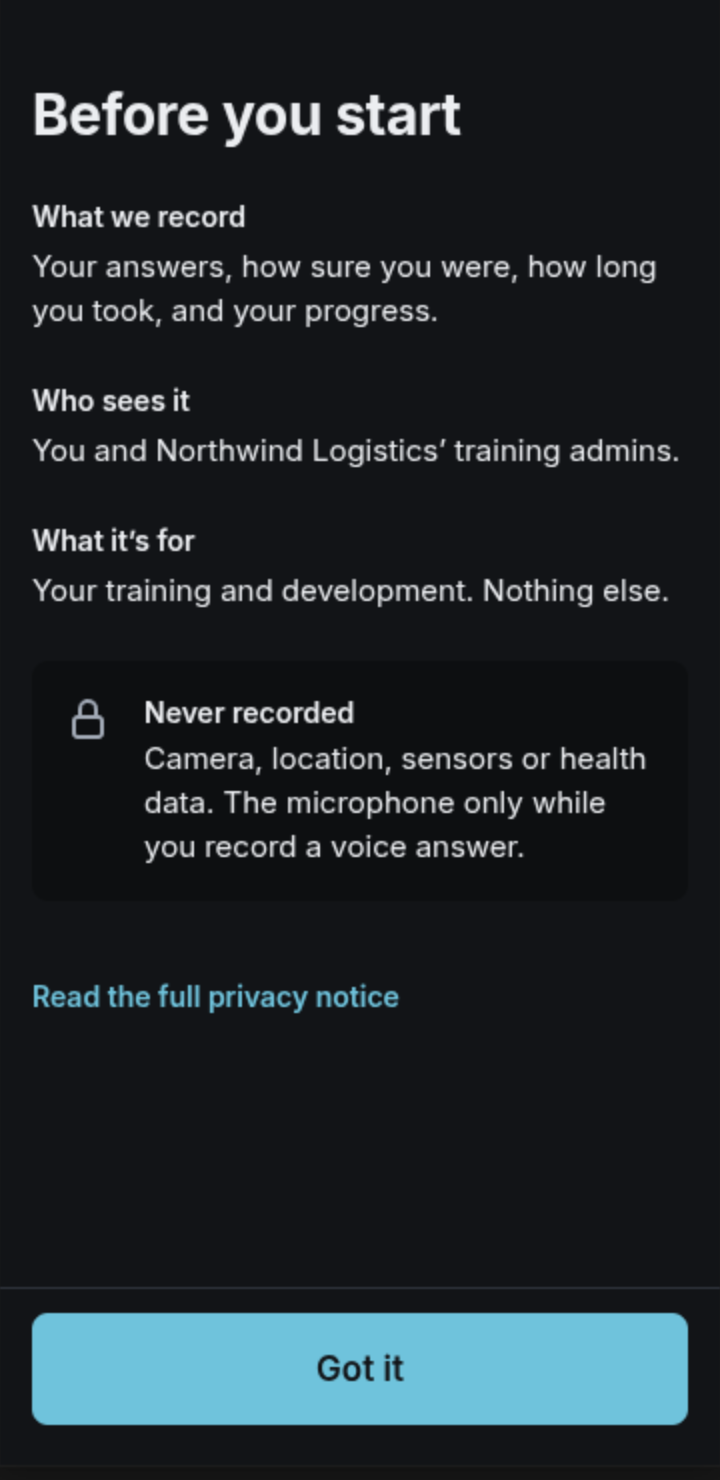
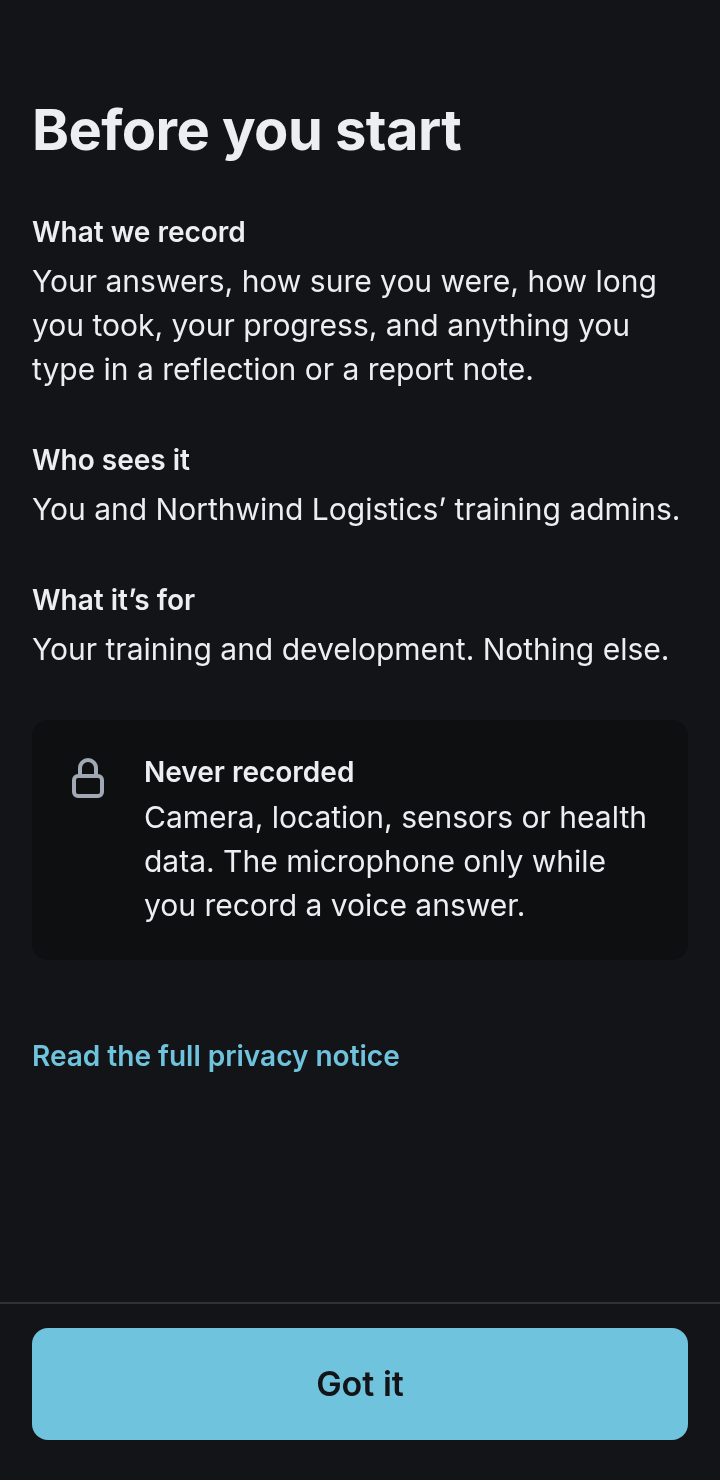
Match the learner privacy design to the shipped wording
The learner design now uses the same privacy sentences as the apps.
Only company owners and admins can open a learner's Training
progress page, and there is no manager role, so the header caption
reads "Your company's training admins see this same page." Learners'
reflections and report notes are stored, and company admins see
report notes, so What we record lists them. The handoff notes record
both sentences, and the Disclosure and Training progress screenshots
are re-exported in light and dark.

Fixes #808

Implementer: claude-opus (anthropic): claude-opus-5-5 medium

diff --git a/docs/design/mobile/source/Handoff.dc.html b/docs/design/mobile/source/Handoff.dc.html
@@ -113,6 +113,7 @@
         <ul class="t-body" style="list-style: disc; padding-left: 20px; display: flex; flex-direction: column; gap: 4px;">
           <li>Scroll padding 48 / 16 / 16. <code>h1</code> "Before you start".</li>
           <li>Three text blocks, no icons, gap 24; each a label heading + body (gap 4): What we record, Who sees it, What it’s for.</li>
+          <li>What we record: "Your answers, how sure you were, how long you took, your progress, and anything you type in a reflection or a report note." Reflections and report notes are stored, and company admins see report notes.</li>
           <li>Sunken block "Never recorded", padding 16, lock icon (the only icon on the screen): "Camera, location, sensors or health data. The microphone only while you record a voice answer."</li>
           <li>"Read the full privacy notice" link (external URL). Dock: Got it.</li>
         </ul>
@@ -775,7 +776,7 @@
       <div style="flex: 1 1 240px; min-width: 0; display: flex; flex-direction: column; gap: 8px;">
         <h3 class="t-label">Layout</h3>
         <ul class="t-body" style="list-style: disc; padding-left: 20px; display: flex; flex-direction: column; gap: 4px;">
-          <li>Header: <code>h1</code> "Training progress" + Settings gear; "Jordan Reyes · Warehouse picker"; eye caption "Your manager sees this same page."</li>
+          <li>Header: <code>h1</code> "Training progress" + Settings gear; "Jordan Reyes · Warehouse picker"; eye caption "Your company's training admins see this same page." Only company owners and admins can open a learner's page; there is no manager role.</li>
           <li>Mastery card: "66%" (display) + "of 85% benchmark", 12 px bar, two facts: "Day 16 of 30", "Projected: Nov 12 / Reaches 85% on day 25".</li>
           <li>Weekly trend: 188 px line chart, 3 weekly points, dashed projection to 85% on Nov 12, dashed benchmark line.</li>
           <li>By unit: accordion rows (Receiving open), bars, concept lists with chips. Safety: dashed estimate bar + Estimate chip under the bar, as on Path.</li>

diff --git a/docs/design/mobile/source/Disclosure.dc.html b/docs/design/mobile/source/Disclosure.dc.html
@@ -20,7 +20,7 @@
     <div style="display: flex; flex-direction: column; gap: 24px;">
       <section aria-labelledby="d-record" style="display: flex; flex-direction: column; gap: 4px;">
         <h2 id="d-record" class="t-label">What we record</h2>
-        <p class="t-body">Your answers, how sure you were, how long you took, and your progress.</p>
+        <p class="t-body">Your answers, how sure you were, how long you took, your progress, and anything you type in a reflection or a report note.</p>
       </section>
       <section aria-labelledby="d-see" style="display: flex; flex-direction: column; gap: 4px;">
         <h2 id="d-see" class="t-label">Who sees it</h2>

diff --git a/docs/design/mobile/source/Profile.dc.html b/docs/design/mobile/source/Profile.dc.html
@@ -26,7 +26,7 @@
       <p class="t-body">Jordan Reyes · Warehouse picker</p>
       <p class="t-caption muted" style="display: flex; align-items: center; gap: 4px; margin-top: 4px;">
         <svg viewBox="0 0 24 24" width="16" height="16" fill="none" stroke="currentColor" stroke-width="2" stroke-linecap="round" stroke-linejoin="round" aria-hidden="true"><path d="M2 12s3.5-7 10-7 10 7 10 7-3.5 7-10 7S2 12 2 12z"></path><circle cx="12" cy="12" r="3"></circle></svg>
-        Your manager sees this same page.
+        Your company's training admins see this same page.
       </p>
     </header>
 

diff --git a/docs/design/mobile/HANDOFF.md b/docs/design/mobile/HANDOFF.md
@@ -69,6 +69,7 @@ Route: not in spec · Disclosure
 Layout
 Scroll padding 48 / 16 / 16. h1 "Before you start".
 Three text blocks, no icons, gap 24; each a label heading + body (gap 4): What we record, Who sees it, What it’s for.
+What we record: "Your answers, how sure you were, how long you took, your progress, and anything you type in a reflection or a report note." Reflections and report notes are stored, and company admins see report notes.
 Sunken block "Never recorded", padding 16, lock icon (the only icon on the screen): "Camera, location, sensors or health data. The microphone only while you record a voice answer."
 "Read the full privacy notice" link (external URL). Dock: Got it.
 Components
@@ -435,7 +436,7 @@ Route: /me/profile · Profile, ProfileEmpty (state prop), ProfileErrors (scroll 
 States: normal · empty (before session 1).
 
 Layout
-Header: h1 "Training progress" + Settings gear; "Jordan Reyes · Warehouse picker"; eye caption "Your manager sees this same page."
+Header: h1 "Training progress" + Settings gear; "Jordan Reyes · Warehouse picker"; eye caption "Your company's training admins see this same page." Only company owners and admins can open a learner's page; there is no manager role.
 Mastery card: "66%" (display) + "of 85% benchmark", 12 px bar, two facts: "Day 16 of 30", "Projected: Nov 12 / Reaches 85% on day 25".
 Weekly trend: 188 px line chart, 3 weekly points, dashed projection to 85% on Nov 12, dashed benchmark line.
 By unit: accordion rows (Receiving open), bars, concept lists with chips. Safety: dashed estimate bar + Estimate chip under the bar, as on Path.
